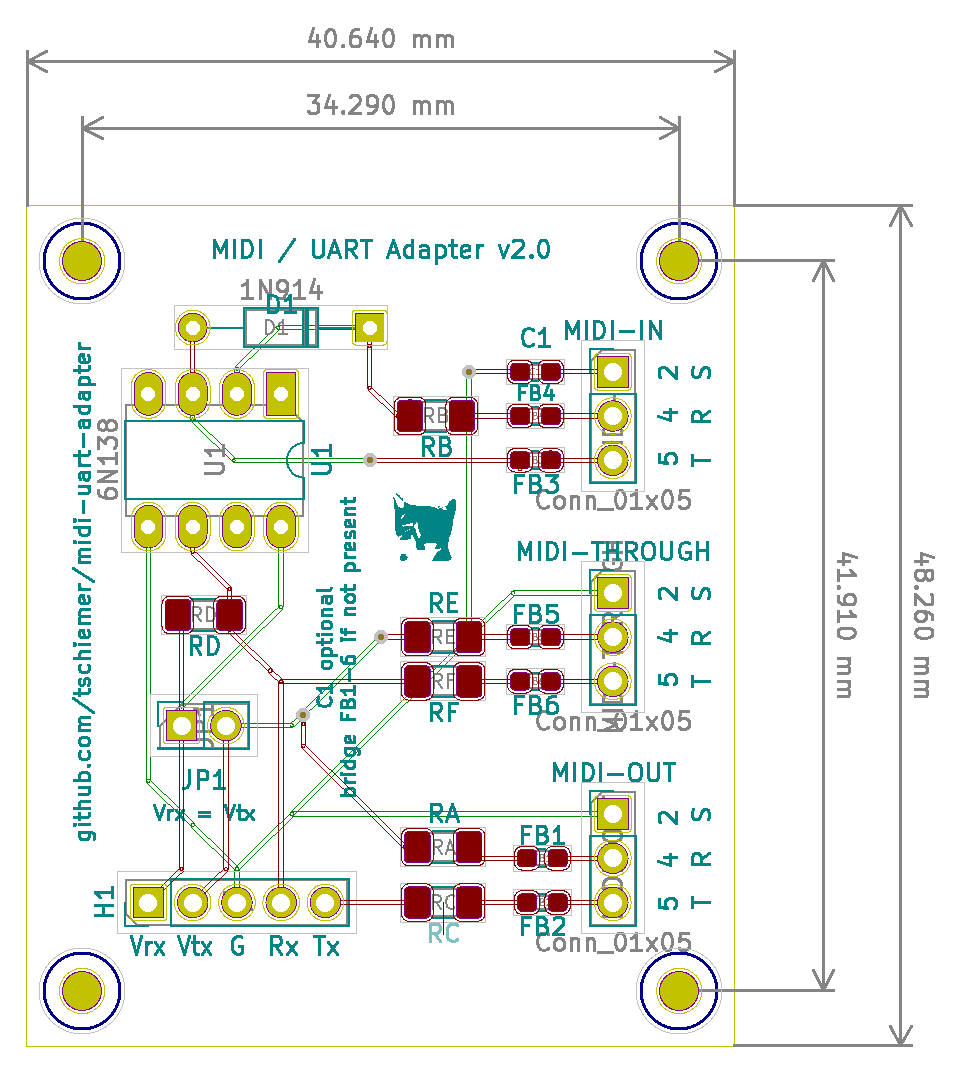
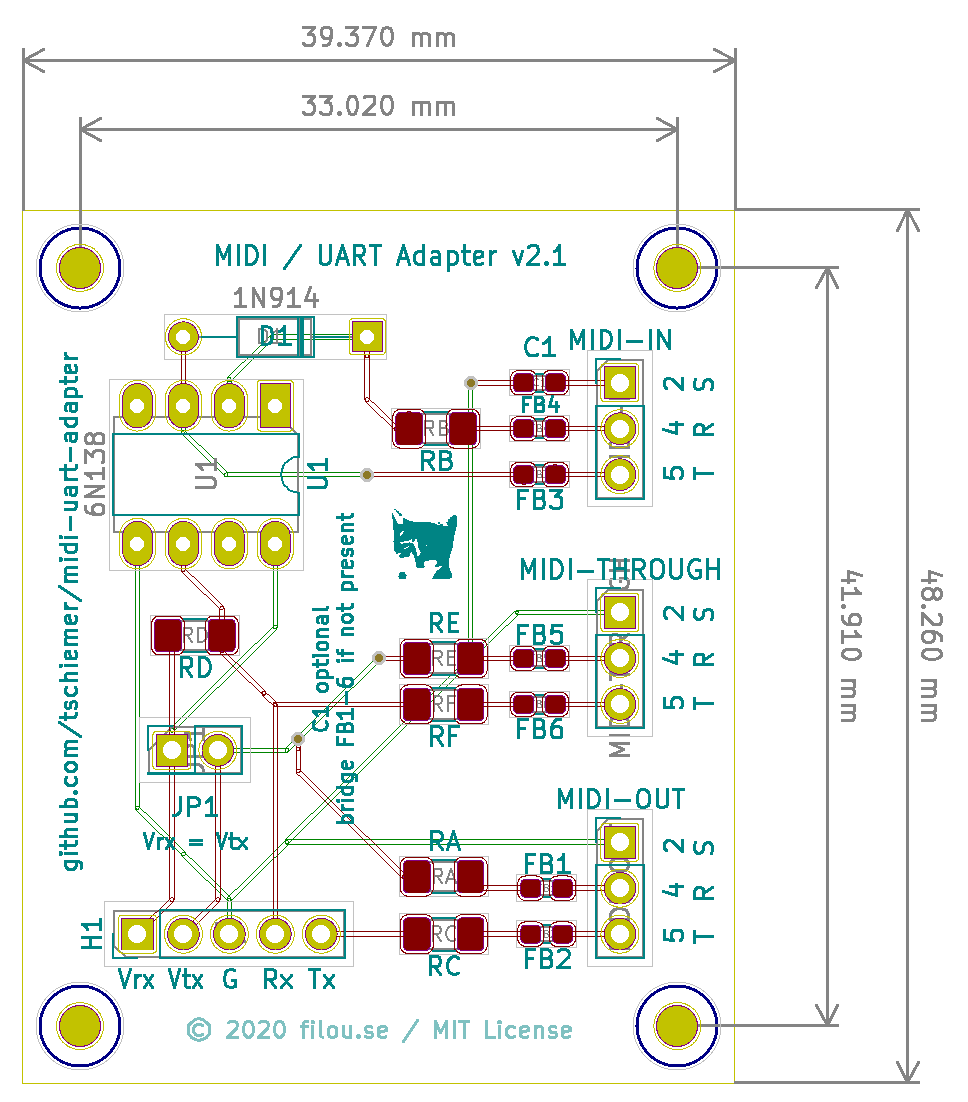
v2.1

diff --git a/README.md b/README.md
@@ -12,19 +12,23 @@ https://github.com/tschiemer/midi-uart-adapter
 
 ***Please note, this is my first PCB design ever which at this very moment has not been tested yet - hopefully soon to come.***
 
-![PCB v1.0~alpha](https://github.com/tschiemer/midi-uart-adapter/blob/master/README-PCB.png?raw=true)
+![PCB](https://github.com/tschiemer/midi-uart-adapter/blob/master/README-PCB.png?raw=true)
 
 ## Parts
 
 - [LITEON 6N138](https://datasheet.octopart.com/6N139-Lite-On-datasheet-8327661.pdf) or [ONSEMI 6N138](https://www.onsemi.com/pub/Collateral/HCPL2731-D.PDF) Octocoupler
 - [ONSEMI 1N914](https://www.onsemi.com/pub/Collateral/1N914-D.PDF) Laser Diode
 - Resistors (RA, RB, RC, RD, RE, RF) when Vrx = Vtx = 5V: 220 Ohm 5% 0.25W, Package 1206 (3216 Metric) (ex. [ Bourns Inc. CR1206-FX-2200ELF](https://www.bourns.com/docs/product-datasheets/CRxxxxx.pdf) )
-- *Optional* Ferrite Beads (F1-6), 1kOhm @ 1MHz, Package 0603 (1608 Metric) (ex. [TDK Corporation MMZ1608Y102BTA00](https://product.tdk.com/en/search/emc/emc/beads/info/print_pdf)), bridge if not used
+- *Optional* Ferrite Beads (FB1-6), 1kOhm @ 1MHz, Package 0603 (1608 Metric) (ex. [TDK Corporation MMZ1608Y102BTA00](https://product.tdk.com/en/search/emc/emc/beads/info/print_pdf)), bridge if not used
 - *Optional* Capacitor (C1), 0.1UF, Package 0201 (0603 Metric) (ex. [Murata Electronics GRM033C80J104KE15D](https://search.murata.co.jp/Ceramy/image/img/A01X/G101/ENG/GRM033C80J104KE15-01A.pdf)), leave unconnected if not used
 
 The optional parts (ferrite beads and capacitor) are intended to surpress EMI etc.
 
 ## Changelog
+
+v2.1
+- Reduced size to fit into 4x5cm
+- Added license on silkscreen
 
 v2.0
 - Removed unnecessary header pins
